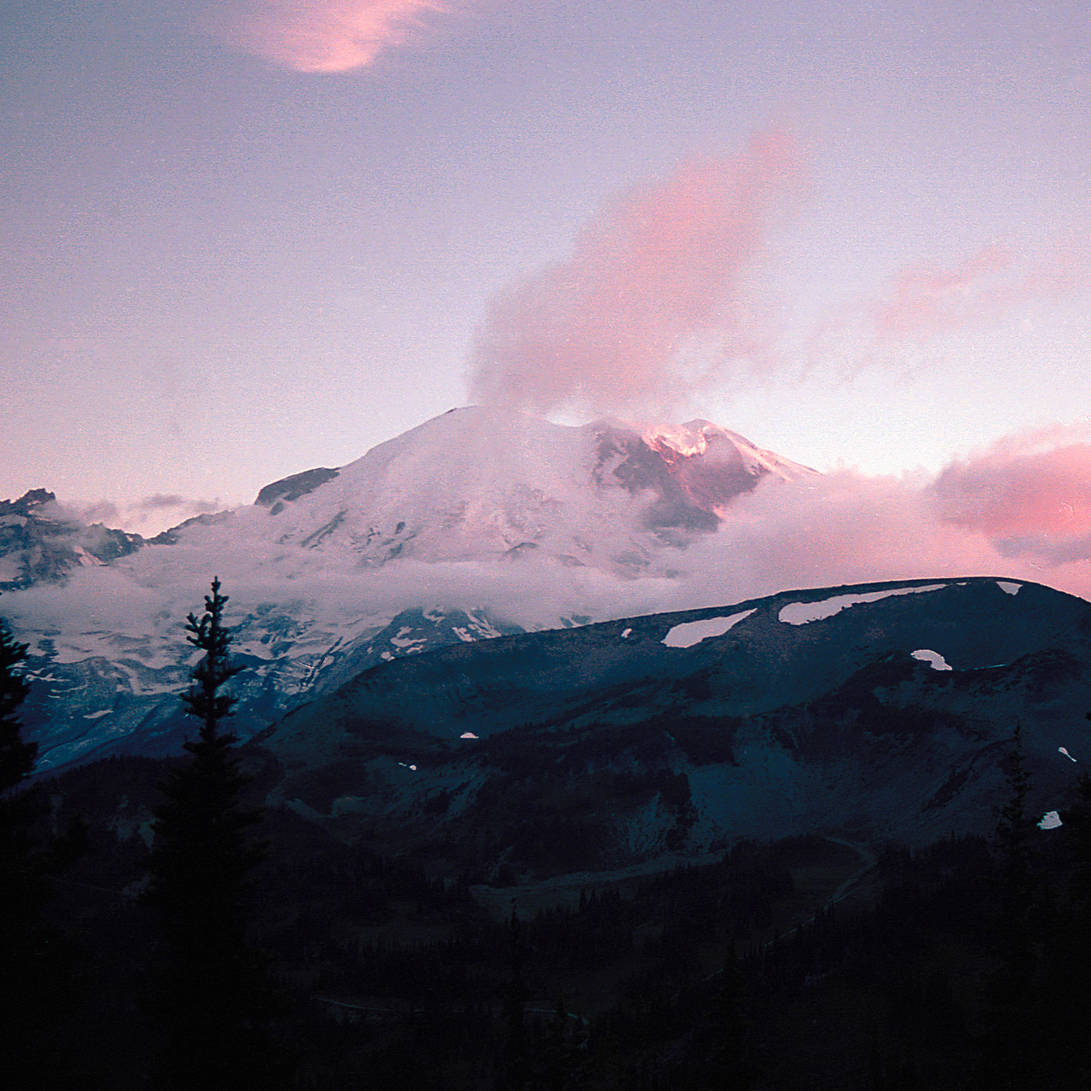
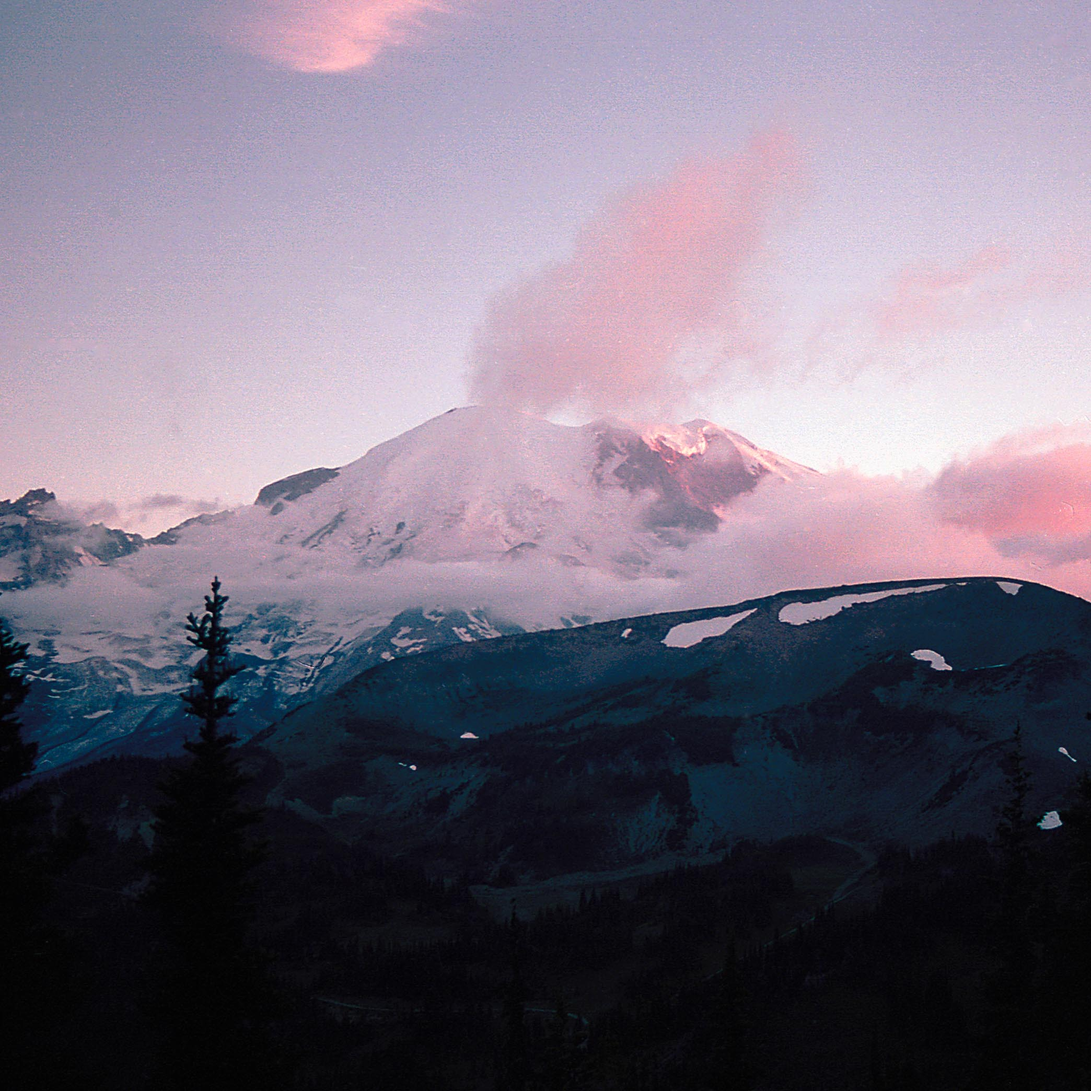
smaller images and new images

diff --git a/src/Pages/Photos.jsx b/src/Pages/Photos.jsx
@@ -15,6 +15,8 @@ import img13 from '../assets/img/img13.jpg';
 import img14 from '../assets/img/img14.jpg'; 
 import img15 from '../assets/img/img15.jpg'; 
 import img16 from '../assets/img/img16.jpg'; 
+import img17 from '../assets/img/img17.jpg'; 
+import img18 from '../assets/img/img18.jpg'; 
 
 import img1small from '../assets/img-small/img1-small.jpg'
 import img2small from '../assets/img-small/img2-small.jpg'
@@ -32,6 +34,8 @@ import img13small from '../assets/img-small/img13-small.jpg'
 import img14small from '../assets/img-small/img14-small.jpg'
 import img15small from '../assets/img-small/img15-small.jpg'
 import img16small from '../assets/img-small/img16-small.jpg'
+import img17small from '../assets/img-small/img17-small.jpg'
+import img18small from '../assets/img-small/img18-small.jpg'
 
 import '../Styles/Photos.css'
 import { motion } from "framer-motion"
@@ -53,6 +57,9 @@ const Photos = () => {
     { id: 8, src: img8small, fullSize: img8 },
     { id: 9, src: img9small, fullSize: img9 },
     { id: 10, src: img10small, fullSize: img10 },
+    { id: 17, src: img17small, fullSize: img17 },
+    { id: 18, src: img18small, fullSize: img18 },
+    { id: 1, src: img1small, fullSize: img1 },
     
     // Add more photos as needed
   ];
@@ -84,10 +91,10 @@ const Photos = () => {
             {photosData.map((photo) => (
               <div key={photo.id} className="photo" onClick={() => handlePhotoClick(photo)}>
                 <motion.img 
-                initial={{opacity: 0, y: '40%'}}
-                animate={{opacity: 1, y:0}}
+                initial={{opacity: 0}}
+                animate={{opacity: 1}}
                 exit={{opacity:0, y:'40%'}}
-                transition={{ duration: 0.85 }}
+                transition={{ duration: 1 }}
                 loading='lazy' className='photo-item' src={photo.src} alt={`Photo ${photo.id}`} />
               </div>
             ))}

diff --git a/src/Pages/About.jsx b/src/Pages/About.jsx
@@ -13,16 +13,15 @@ const About = () => {
     return (
         <div className='profile-container'>
           <motion.img 
-        initial={{x: '-500%'}}
-
-          animate={{ rotate: 360, x:'600%' }}
-          transition={{ repeat: Infinity, duration: 2, ease: 'linear' }}
+            initial={{opacity: 0}}
+            animate={{ opacity: 1 }}
+            transition={{duration: 0.85}}
+            className='profile-pic' src={young_tuan}/>
           
-
-          className='profile-pic' src={young_tuan}/>
-          
-
-            <div className='profile-info'>
+            <motion.div className='profile-info' 
+                initial={{opacity: 0}}
+                animate={{ opacity: 1 }}
+                transition={{duration: 0.85}}>
                 <h2 className='name'>Tuan</h2>
                 <ul>
                     <li>
@@ -43,7 +42,7 @@ const About = () => {
                     </a>
                     </li>  
                 </ul>  
-            </div>
+            </motion.div>
             
          
          

diff --git a/src/Pages/Home.jsx b/src/Pages/Home.jsx
@@ -1,4 +1,4 @@
-import img8 from '../assets/img/img8.jpg'
+import img8 from '../assets/img-small/img8-small.jpg'
 import '../Styles/Home.css'
 import { motion } from "framer-motion"
 
